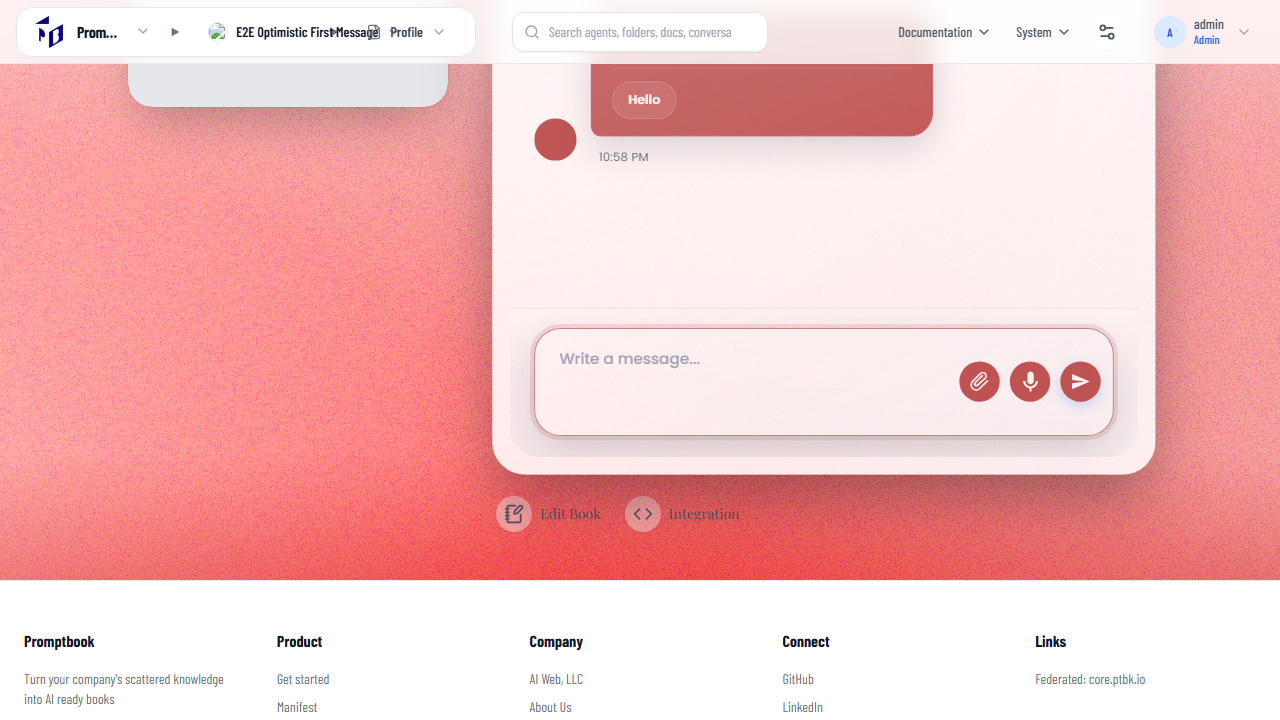
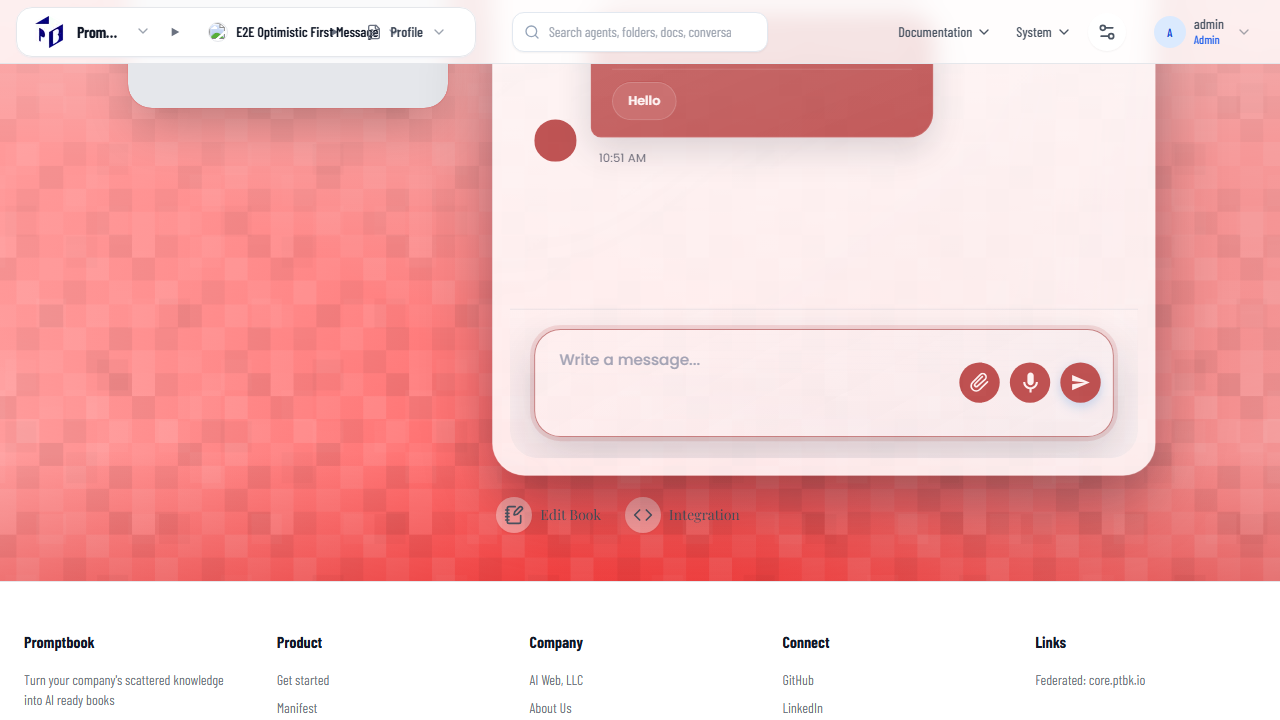
[✨🔯] Enhance mobile menu
-   The icon should not obstruct the server logo
-   The icon should not be in the box
-   On the mobile menu hamburger, the close icon on opened menu should stay on same place as was the open icon
-   Menu must be closable by swiping
-   Menu must be closable by clicking outside
-   Menu should have better design
    -   It should use space more efficiently
    -   It should be aligned to left
-   Keep in mind the DRY _(don't repeat yourself)_ principle.
-   Do a proper analysis of the current functionality of the menu before you start implementing.
-   You are working with the [Agents Server](apps/agents-server)

![alt text](prompts/screenshots/2026-03-1610-agents-server-arrow-hoisting-9.png)

diff --git a/apps/agents-server/src/components/Header/Header.tsx b/apps/agents-server/src/components/Header/Header.tsx
@@ -16,7 +16,6 @@ import {
     LogIn,
     LogOut,
     Settings2,
-    XIcon,
     UserRound,
     Wrench,
     type LucideIcon,
@@ -256,6 +255,16 @@ const SYSTEM_CATEGORY_ICON_MAP: Record<SystemCategoryLabel, LucideIcon> = {
  * Shared immutable fallback for mobile drawer sections when no route-level entries are hoisted.
  */
 const EMPTY_HOISTED_MOBILE_MENU_ITEMS: ReadonlyArray<SubMenuItem> = [];
+/**
+ * Shared style for top-level interactive rows in the mobile drawer.
+ */
+const MOBILE_DRAWER_TOP_LEVEL_BUTTON_CLASSNAME =
+    'w-full flex items-center justify-between gap-2 rounded-lg px-3 py-2.5 text-left text-sm font-semibold text-gray-700 transition-colors hover:bg-gray-50 hover:text-gray-900 active:bg-gray-100';
+/**
+ * Shared compact panel surface used by collapsible mobile drawer sections.
+ */
+const MOBILE_DRAWER_PANEL_CLASSNAME =
+    'w-full flex flex-col gap-1 rounded-lg border border-gray-200 bg-gray-50/80 p-2.5 shadow-sm';
 
 /**
  * Propagates one fallback icon to submenu entries that do not specify their own icon.
@@ -2056,14 +2065,14 @@ export function Header(props: HeaderProps) {
                 />
             )}
             <div className="relative h-full w-full">
-                <div className="absolute left-2 top-1/2 z-[65] -translate-y-1/2 lg:hidden">
-                    <HamburgerMenu
-                        isOpen={isMenuOpen}
-                        onClick={() => setIsMenuOpen((isOpen) => !isOpen)}
-                        className="rounded-xl border border-gray-200 bg-white text-gray-700 shadow-[0_6px_18px_rgba(15,23,42,0.08)] transition duration-150 hover:bg-gray-50 hover:text-gray-900"
-                    />
-                </div>
-                <div className="flex h-full items-center gap-2 px-4 pl-10 sm:gap-4 sm:pl-11 lg:grid lg:grid-cols-[minmax(0,1fr)_auto_minmax(0,1fr)] lg:gap-5 lg:pl-4">
+                <div className="flex h-full items-center gap-2 px-3 sm:gap-4 sm:px-4 lg:grid lg:grid-cols-[minmax(0,1fr)_auto_minmax(0,1fr)] lg:gap-5 lg:px-4">
+                    <div className="relative z-[90] -ml-1 shrink-0 lg:hidden">
+                        <HamburgerMenu
+                            isOpen={isMenuOpen}
+                            onClick={() => setIsMenuOpen((isOpen) => !isOpen)}
+                            className="text-gray-600 transition-colors duration-150 hover:text-gray-900"
+                        />
+                    </div>
                     <div className="min-w-0 flex-1">
                         <div className="flex min-w-0 items-center gap-2 sm:gap-3 rounded-2xl border border-gray-200 bg-white/90 px-2 sm:px-3 md:px-4 py-2 text-sm font-semibold text-gray-900 shadow-sm shadow-slate-200/60 backdrop-blur">
                             <div className="relative flex min-w-0 items-center gap-3">
@@ -2513,7 +2522,7 @@ export function Header(props: HeaderProps) {
                             WebkitBackdropFilter: 'blur(20px)',
                         }}
                     >
-                        <nav className="mx-auto flex min-h-0 flex-1 flex-col gap-6 overflow-y-auto overscroll-contain px-4 py-6 pb-8 scrollbar-thin scrollbar-thumb-gray-300 scrollbar-track-gray-100">
+                        <nav className="flex min-h-0 flex-1 flex-col gap-4 overflow-y-auto overscroll-contain px-4 py-4 pb-6 scrollbar-thin scrollbar-thumb-gray-300 scrollbar-track-gray-100">
                             {/* Hoisted Mobile Menu Trees */}
                             {hoistedMobileMenuItems.length > 0 && (
                                 <div className="w-full border-b border-gray-200 pb-4">
@@ -2521,38 +2530,30 @@ export function Header(props: HeaderProps) {
                                 </div>
                             )}
 
-                            <div className="w-full border-b border-gray-200 pb-6">
-                                <div className="flex items-center justify-between gap-2 text-xs font-bold uppercase tracking-[0.3em] text-gray-400 mb-3">
+                            <div className="w-full border-b border-gray-200 pb-4">
+                                <div className="mb-2 flex items-center gap-2 text-xs font-bold uppercase tracking-[0.3em] text-gray-400">
                                     <span>{t('header.menuLabel')}</span>
-                                    <div className="flex items-center gap-1">
-                                        {federatedServers.length > 0 && (
-                                            <button
-                                                className="inline-flex p-1 text-gray-500 hover:text-gray-800"
-                                                onClick={() => setIsFederatedOpen(!isFederatedOpen)}
-                                                aria-label={t('header.switchServerAria')}
-                                            >
-                                                <ChevronDown
-                                                    className={`h-4 w-4 transition-transform duration-200 ${
-                                                        isFederatedOpen ? 'rotate-180' : ''
-                                                    }`}
-                                                />
-                                            </button>
-                                        )}
+                                    {federatedServers.length > 0 && (
                                         <button
-                                            type="button"
-                                            className="inline-flex h-7 w-7 items-center justify-center rounded-md text-gray-500 transition hover:bg-gray-100 hover:text-gray-700"
-                                            onClick={() => setIsMenuOpen(false)}
-                                            aria-label={t('common.close')}
+                                            className="inline-flex p-1 text-gray-500 hover:text-gray-800"
+                                            onClick={() => setIsFederatedOpen(!isFederatedOpen)}
+                                            aria-label={t('header.switchServerAria')}
                                         >
-                                            <XIcon className="h-4 w-4" />
+                                            <ChevronDown
+                                                className={`h-4 w-4 transition-transform duration-200 ${
+                                                    isFederatedOpen ? 'rotate-180' : ''
+                                                }`}
+                                            />
                                         </button>
-                                    </div>
+                                    )}
                                 </div>
-                                <p className="text-lg font-bold text-gray-900 truncate">{serverName}</p>
+                                <p className="truncate text-base font-semibold text-gray-900">{serverName}</p>
                                 {isFederatedOpen && federatedDropdownItems.length > 0 && (
-                                    <div className="mt-4 w-full flex flex-col gap-1 rounded-lg border border-gray-200 bg-gradient-to-b from-gray-50 to-white p-3 shadow-sm animate-in fade-in-0 slide-in-from-top-2 duration-200">
+                                    <div
+                                        className={`${MOBILE_DRAWER_PANEL_CLASSNAME} mt-3 animate-in fade-in-0 slide-in-from-top-2 duration-200`}
+                                    >
                                         {federatedDropdownItems.map((subItem, subIndex) => {
-                                            const className = `block rounded-md px-4 py-3 text-sm text-gray-700 hover:bg-white hover:shadow-sm active:scale-98 transition-all duration-150 ${
+                                            const className = `block rounded-md px-3 py-2 text-sm text-gray-700 transition-colors hover:bg-white hover:text-gray-900 active:bg-gray-100 ${
                                                 subItem.isBold ? 'font-semibold' : ''
                                             }`;
                                             if (subItem.href) {
@@ -2576,12 +2577,12 @@ export function Header(props: HeaderProps) {
                                     </div>
                                 )}
 
-                                <div className="mt-6 flex flex-col gap-4 w-full">
+                                <div className="mt-4 flex w-full flex-col gap-3">
                                     <div className="flex items-center gap-2 text-sm font-medium text-gray-600">
                                         <ArrowIcon direction="right" className="h-4 w-4 text-gray-500" />
                                         {isAdmin ? (
                                             <button
-                                                className="inline-flex items-center gap-2 rounded-full px-4 py-2 text-sm font-semibold text-gray-900 hover:bg-gray-100 active:bg-gray-200 transition-all duration-150"
+                                                className={`${MOBILE_DRAWER_TOP_LEVEL_BUTTON_CLASSNAME} flex-1`}
                                                 onClick={() => setIsMobileAgentsOpen(!isMobileAgentsOpen)}
                                             >
                                                 <AgentNameWithAvatar
@@ -2605,7 +2606,7 @@ export function Header(props: HeaderProps) {
                                         ) : (
                                             <HeadlessLink
                                                 href={activeAgentHref}
-                                                className="flex min-w-0 items-center gap-2"
+                                                className="flex min-w-0 flex-1 items-center gap-2 rounded-lg px-3 py-2.5 text-sm font-semibold text-gray-900 transition-colors hover:bg-gray-50"
                                                 onClick={() => setIsMenuOpen(false)}
                                             >
                                                 <AgentNameWithAvatar
@@ -2625,17 +2626,19 @@ export function Header(props: HeaderProps) {
                                     </div>
 
                                     {isAdmin && isMobileAgentsOpen && (
-                                        <div className="w-full max-w-[90vw] flex flex-col gap-1 rounded-lg border border-gray-200 bg-gradient-to-b from-gray-50 to-white p-3 max-h-[40vh] overflow-y-auto shadow-sm animate-in fade-in-0 slide-in-from-top-2 duration-200 scrollbar-thin scrollbar-thumb-gray-300 scrollbar-track-gray-100">
+                                        <div
+                                            className={`${MOBILE_DRAWER_PANEL_CLASSNAME} max-h-[40vh] overflow-y-auto animate-in fade-in-0 slide-in-from-top-2 duration-200 scrollbar-thin scrollbar-thumb-gray-300 scrollbar-track-gray-100`}
+                                        >
                                             {renderMobileNestedMenuItems(hierarchyAgentMobileItems, 'mobile-agents')}
                                         </div>
                                     )}
 
                                     {activeAgentView && activeAgentViewItems.length > 0 && (
-                                        <div className="w-full max-w-[90vw] flex flex-col gap-1">
-                                            <div className="flex items-center justify-center gap-2 text-sm font-medium text-gray-700">
+                                        <div className="w-full flex flex-col gap-1">
+                                            <div className="flex items-center justify-start gap-2 text-sm font-medium text-gray-700">
                                                 <ArrowIcon direction="right" className="h-4 w-4 text-gray-500" />
                                                 <button
-                                                    className="inline-flex items-center gap-2 rounded-full px-3 py-1.5 text-sm font-semibold text-gray-900 hover:bg-gray-100 transition"
+                                                    className="inline-flex items-center gap-2 rounded-lg px-3 py-2 text-sm font-semibold text-gray-900 transition-colors hover:bg-gray-100"
                                                     onClick={() => setIsMobileAgentViewOpen(!isMobileAgentViewOpen)}
                                                 >
                                                     {createAgentViewLabel(activeAgentView, t)}
@@ -2647,7 +2650,9 @@ export function Header(props: HeaderProps) {
                                                 </button>
                                             </div>
                                             {isMobileAgentViewOpen && (
-                                                <div className="flex flex-col gap-1 rounded-lg border border-gray-200 bg-gradient-to-b from-gray-50 to-white p-3 shadow-sm animate-in fade-in-0 slide-in-from-top-2 duration-200">
+                                                <div
+                                                    className={`${MOBILE_DRAWER_PANEL_CLASSNAME} animate-in fade-in-0 slide-in-from-top-2 duration-200`}
+                                                >
                                                     {renderMobileNestedMenuItems(
                                                         activeAgentViewItems,
                                                         'mobile-agent-view',
@@ -2657,7 +2662,7 @@ export function Header(props: HeaderProps) {
                                         </div>
                                     )}
 
-                                    <div className="w-full max-w-[90vw] pt-1">
+                                    <div className="w-full pt-1">
                                         <HeaderSearchBox
                                             placeholder={t('header.searchThisServerPlaceholder')}
                                             onNavigate={() => setIsMenuOpen(false)}
@@ -2668,35 +2673,37 @@ export function Header(props: HeaderProps) {
 
                             {/* Hoisted Menu Items for Mobile */}
                             {menuHoisting && menuHoisting.menu.length > 0 && (
-                                <div className="w-full py-3 border-b border-gray-200 flex justify-center gap-3 overflow-x-auto">
-                                    {menuHoisting.menu.map((item, index) => (
-                                        <button
-                                            key={index}
-                                            onClick={() => {
-                                                item.onClick();
-                                                setIsMenuOpen(false);
-                                            }}
-                                            className={`p-3 rounded-lg hover:bg-gray-100 active:bg-gray-200 transition-all duration-150 text-gray-600 hover:text-gray-900 shadow-sm hover:shadow active:scale-95 ${
-                                                item.isActive ? 'bg-blue-50 text-blue-600 shadow' : ''
-                                            }`}
-                                            title={item.name}
-                                        >
-                                            {item.icon}
-                                            <span className="sr-only">{item.name}</span>
-                                        </button>
-                                    ))}
+                                <div className="w-full border-b border-gray-200 py-3">
+                                    <div className="flex w-full flex-wrap items-center gap-2">
+                                        {menuHoisting.menu.map((item, index) => (
+                                            <button
+                                                key={index}
+                                                onClick={() => {
+                                                    item.onClick();
+                                                    setIsMenuOpen(false);
+                                                }}
+                                                className={`inline-flex h-10 w-10 items-center justify-center rounded-lg text-gray-600 transition-colors duration-150 hover:bg-gray-100 hover:text-gray-900 active:bg-gray-200 ${
+                                                    item.isActive ? 'bg-blue-50 text-blue-600' : ''
+                                                }`}
+                                                title={item.name}
+                                            >
+                                                {item.icon}
+                                                <span className="sr-only">{item.name}</span>
+                                            </button>
+                                        ))}
+                                    </div>
                                 </div>
                             )}
 
                             {/* Login Status for Mobile */}
-                            <div className="w-full py-4 border-b border-gray-200 flex flex-col items-center gap-3">
+                            <div className="w-full border-b border-gray-200 py-4">
                                 {!currentUser && !isAdmin && (
                                     <button
                                         onClick={() => {
                                             void showLoginDialog().catch(() => undefined);
                                             setIsMenuOpen(false);
                                         }}
-                                        className="flex items-center gap-3 px-6 py-3 text-base font-semibold text-white bg-blue-600 hover:bg-blue-700 active:bg-blue-800 rounded-lg shadow-md hover:shadow-lg active:scale-98 transition-all duration-150"
+                                        className="flex w-full items-center justify-center gap-2 rounded-lg bg-blue-600 px-4 py-2.5 text-sm font-semibold text-white transition-colors hover:bg-blue-700 active:bg-blue-800"
                                     >
                                         <LogIn className="w-4 h-4" />
                                         {t('header.logIn')}
@@ -2704,8 +2711,8 @@ export function Header(props: HeaderProps) {
                                 )}
 
                                 {(currentUser || isAdmin) && (
-                                    <div className="w-full flex flex-col items-center gap-3 bg-gradient-to-b from-gray-50 to-white rounded-lg p-4 border border-gray-200 shadow-sm">
-                                        <div className="flex flex-col items-center gap-3 text-center">
+                                    <div className="w-full rounded-lg border border-gray-200 bg-gray-50/80 p-3 shadow-sm">
+                                        <div className="flex items-start gap-3">
                                             <div className="flex h-12 w-12 items-center justify-center rounded-full bg-blue-100 text-lg font-semibold text-blue-700">
                                                 {currentUserProfileImageUrl ? (
                                                     // eslint-disable-next-line @next/next/no-img-element
@@ -2718,21 +2725,22 @@ export function Header(props: HeaderProps) {
                                                     currentUserAvatarLabel
                                                 )}
                                             </div>
-                                            <div className="text-sm text-gray-700 font-medium">
+                                            <div className="min-w-0 pt-1 text-sm font-medium text-gray-700">
                                                 {t('header.loggedInAs', { username: currentUserDisplayName })}
                                                 {(currentUser?.isAdmin || isAdmin) && (
-                                                    <span className="ml-2 bg-gradient-to-r from-blue-100 to-blue-200 text-blue-800 text-xs font-semibold px-3 py-1 rounded-full shadow-sm">
+                                                    <span className="ml-2 rounded-full bg-blue-100 px-2.5 py-1 text-xs font-semibold text-blue-800">
                                                         {t('common.admin')}
                                                     </span>
                                                 )}
                                             </div>
                                         </div>
+                                        <div className="mt-3 flex w-full flex-col gap-2">
                                         <button
                                             onClick={() => {
                                                 setIsChangePasswordOpen(true);
                                                 setIsMenuOpen(false);
                                             }}
-                                            className="w-full flex items-center justify-center gap-2 px-4 py-3 text-base font-semibold text-gray-700 bg-white hover:bg-gray-50 active:bg-gray-100 border border-gray-300 rounded-lg shadow-sm hover:shadow active:scale-98 transition-all duration-150"
+                                            className="flex w-full items-center justify-center gap-2 rounded-lg border border-gray-300 bg-white px-4 py-2.5 text-sm font-semibold text-gray-700 transition-colors hover:bg-gray-50 active:bg-gray-100"
                                         >
                                             <Lock className="w-4 h-4" />
                                             {t('header.changePassword')}
@@ -2742,11 +2750,12 @@ export function Header(props: HeaderProps) {
                                                 handleLogout();
                                                 setIsMenuOpen(false);
                                             }}
-                                            className="w-full flex items-center justify-center gap-2 px-4 py-3 text-base font-semibold text-red-600 bg-red-50 hover:bg-red-100 active:bg-red-200 border border-red-200 rounded-lg shadow-sm hover:shadow active:scale-98 transition-all duration-150"
+                                            className="flex w-full items-center justify-center gap-2 rounded-lg border border-red-200 bg-red-50 px-4 py-2.5 text-sm font-semibold text-red-600 transition-colors hover:bg-red-100 active:bg-red-200"
                                         >
                                             <LogOut className="w-4 h-4" />
                                             {t('header.logOut')}
                                         </button>
+                                        </div>
                                     </div>
                                 )}
                             </div>
@@ -2757,7 +2766,7 @@ export function Header(props: HeaderProps) {
                                         <HeadlessLink
                                             key={index}
                                             href={item.href}
-                                            className="block w-full text-base font-semibold text-gray-700 hover:text-blue-600 py-3 px-4 text-center rounded-lg hover:bg-gray-50 active:bg-gray-100 active:scale-98 transition-all duration-150"
+                                            className="block w-full rounded-lg px-3 py-2.5 text-left text-sm font-semibold text-gray-700 transition-colors hover:bg-gray-50 hover:text-blue-600 active:bg-gray-100"
                                             onClick={() => setIsMenuOpen(false)}
                                         >
                                             {item.label}
@@ -2767,9 +2776,9 @@ export function Header(props: HeaderProps) {
 
                                 if (item.type === 'dropdown') {
                                     return (
-                                        <div key={index} className="w-full flex flex-col items-center gap-2">
+                                        <div key={index} className="w-full flex flex-col items-stretch gap-2">
                                             <button
-                                                className="w-full flex items-center justify-center gap-2 text-base font-semibold text-gray-700 hover:text-blue-600 py-3 px-4 rounded-lg hover:bg-gray-50 active:bg-gray-100 active:scale-98 transition-all duration-150"
+                                                className={MOBILE_DRAWER_TOP_LEVEL_BUTTON_CLASSNAME}
                                                 onClick={() => item.setIsMobileOpen(!item.isMobileOpen)}
                                             >
                                                 {item.label}
@@ -2780,7 +2789,9 @@ export function Header(props: HeaderProps) {
                                                 />
                                             </button>
                                             {item.isMobileOpen && (
-                                                <div className="w-full flex flex-col items-center gap-2 bg-gray-50 rounded-lg p-3 border border-gray-200 shadow-sm animate-in fade-in-0 slide-in-from-top-2 duration-200">
+                                                <div
+                                                    className={`${MOBILE_DRAWER_PANEL_CLASSNAME} animate-in fade-in-0 slide-in-from-top-2 duration-200`}
+                                                >
                                                     {renderMobileNestedMenuItems(item.items, `mobile-menu-${index}`)}
                                                 </div>
                                             )}

diff --git a/other/integration-tests/videos/chat-history-navigation-Ag-90997--chat-from-the-profile-page-chromium/error-context.md b/other/integration-tests/videos/chat-history-navigation-Ag-90997--chat-from-the-profile-page-chromium/error-context.md
@@ -87,8 +87,8 @@
                               - button "Hello":
                                 - generic:
                                   - paragraph: Hello
-                          - generic "2026-04-01 22:58:24":
-                            - generic: 10:58 PM
+                          - generic "2026-04-02 10:51:07":
+                            - generic: 10:51 AM
                     - generic:
                       - generic:
                         - textbox "Write a message..."
@@ -100,11 +100,11 @@
                           - img
           - generic [ref=e120]:
             - link "Edit Book" [ref=e121] [cursor=pointer]:
-              - /url: /agents/SNLq1uoJ8PiYVo/book
+              - /url: /agents/q7wkFPwLVFn8CH/book
               - img [ref=e123]
               - generic [ref=e126]: Edit Book
             - link "Integration" [ref=e127] [cursor=pointer]:
-              - /url: /agents/SNLq1uoJ8PiYVo/integration
+              - /url: /agents/q7wkFPwLVFn8CH/integration
               - img [ref=e129]
               - generic [ref=e132]: Integration
     - contentinfo [ref=e133]:

diff --git a/changelog/_current-preversion.md b/changelog/_current-preversion.md
@@ -1,3 +1,10 @@
+-   Enhanced Agents Server mobile header menu layout consistency and usability:
+
+    -   Moved the mobile hamburger trigger into the normal header flow so it no longer overlaps the server logo area.
+    -   Removed boxed hamburger styling and kept one shared toggle in the same top-left position for both open and close states.
+    -   Preserved both mobile drawer dismissal paths: swipe-to-close and outside-click backdrop close.
+    -   Refined the mobile drawer to a denser left-aligned layout and extracted shared mobile drawer style tokens to keep the implementation DRY.
+
 -   Fixed Agents Server **My chats** navigation no-op clicks so links consistently route with Next.js client-side navigation:
 
     -   Added optional `href` support to hoisted mobile **My chats** items and kept optional click callbacks for side effects.

diff --git a/prompts/2026-03-1610-agents-server-arrow-hoisting.md b/prompts/2026-03-1610-agents-server-arrow-hoisting.md
@@ -60,7 +60,7 @@
 
 ---
 
-[ ] !
+[x] ~$1.70 37 minutes by OpenAI Codex `gpt-5.3-codex`
 
 [✨🔯] Enhance mobile menu
 
@@ -114,3 +114,4 @@
 -   Keep in mind the DRY _(don't repeat yourself)_ principle.
 -   Do a proper analysis of the current functionality of the menu before you start implementing.
 -   You are working with the [Agents Server](apps/agents-server)
+